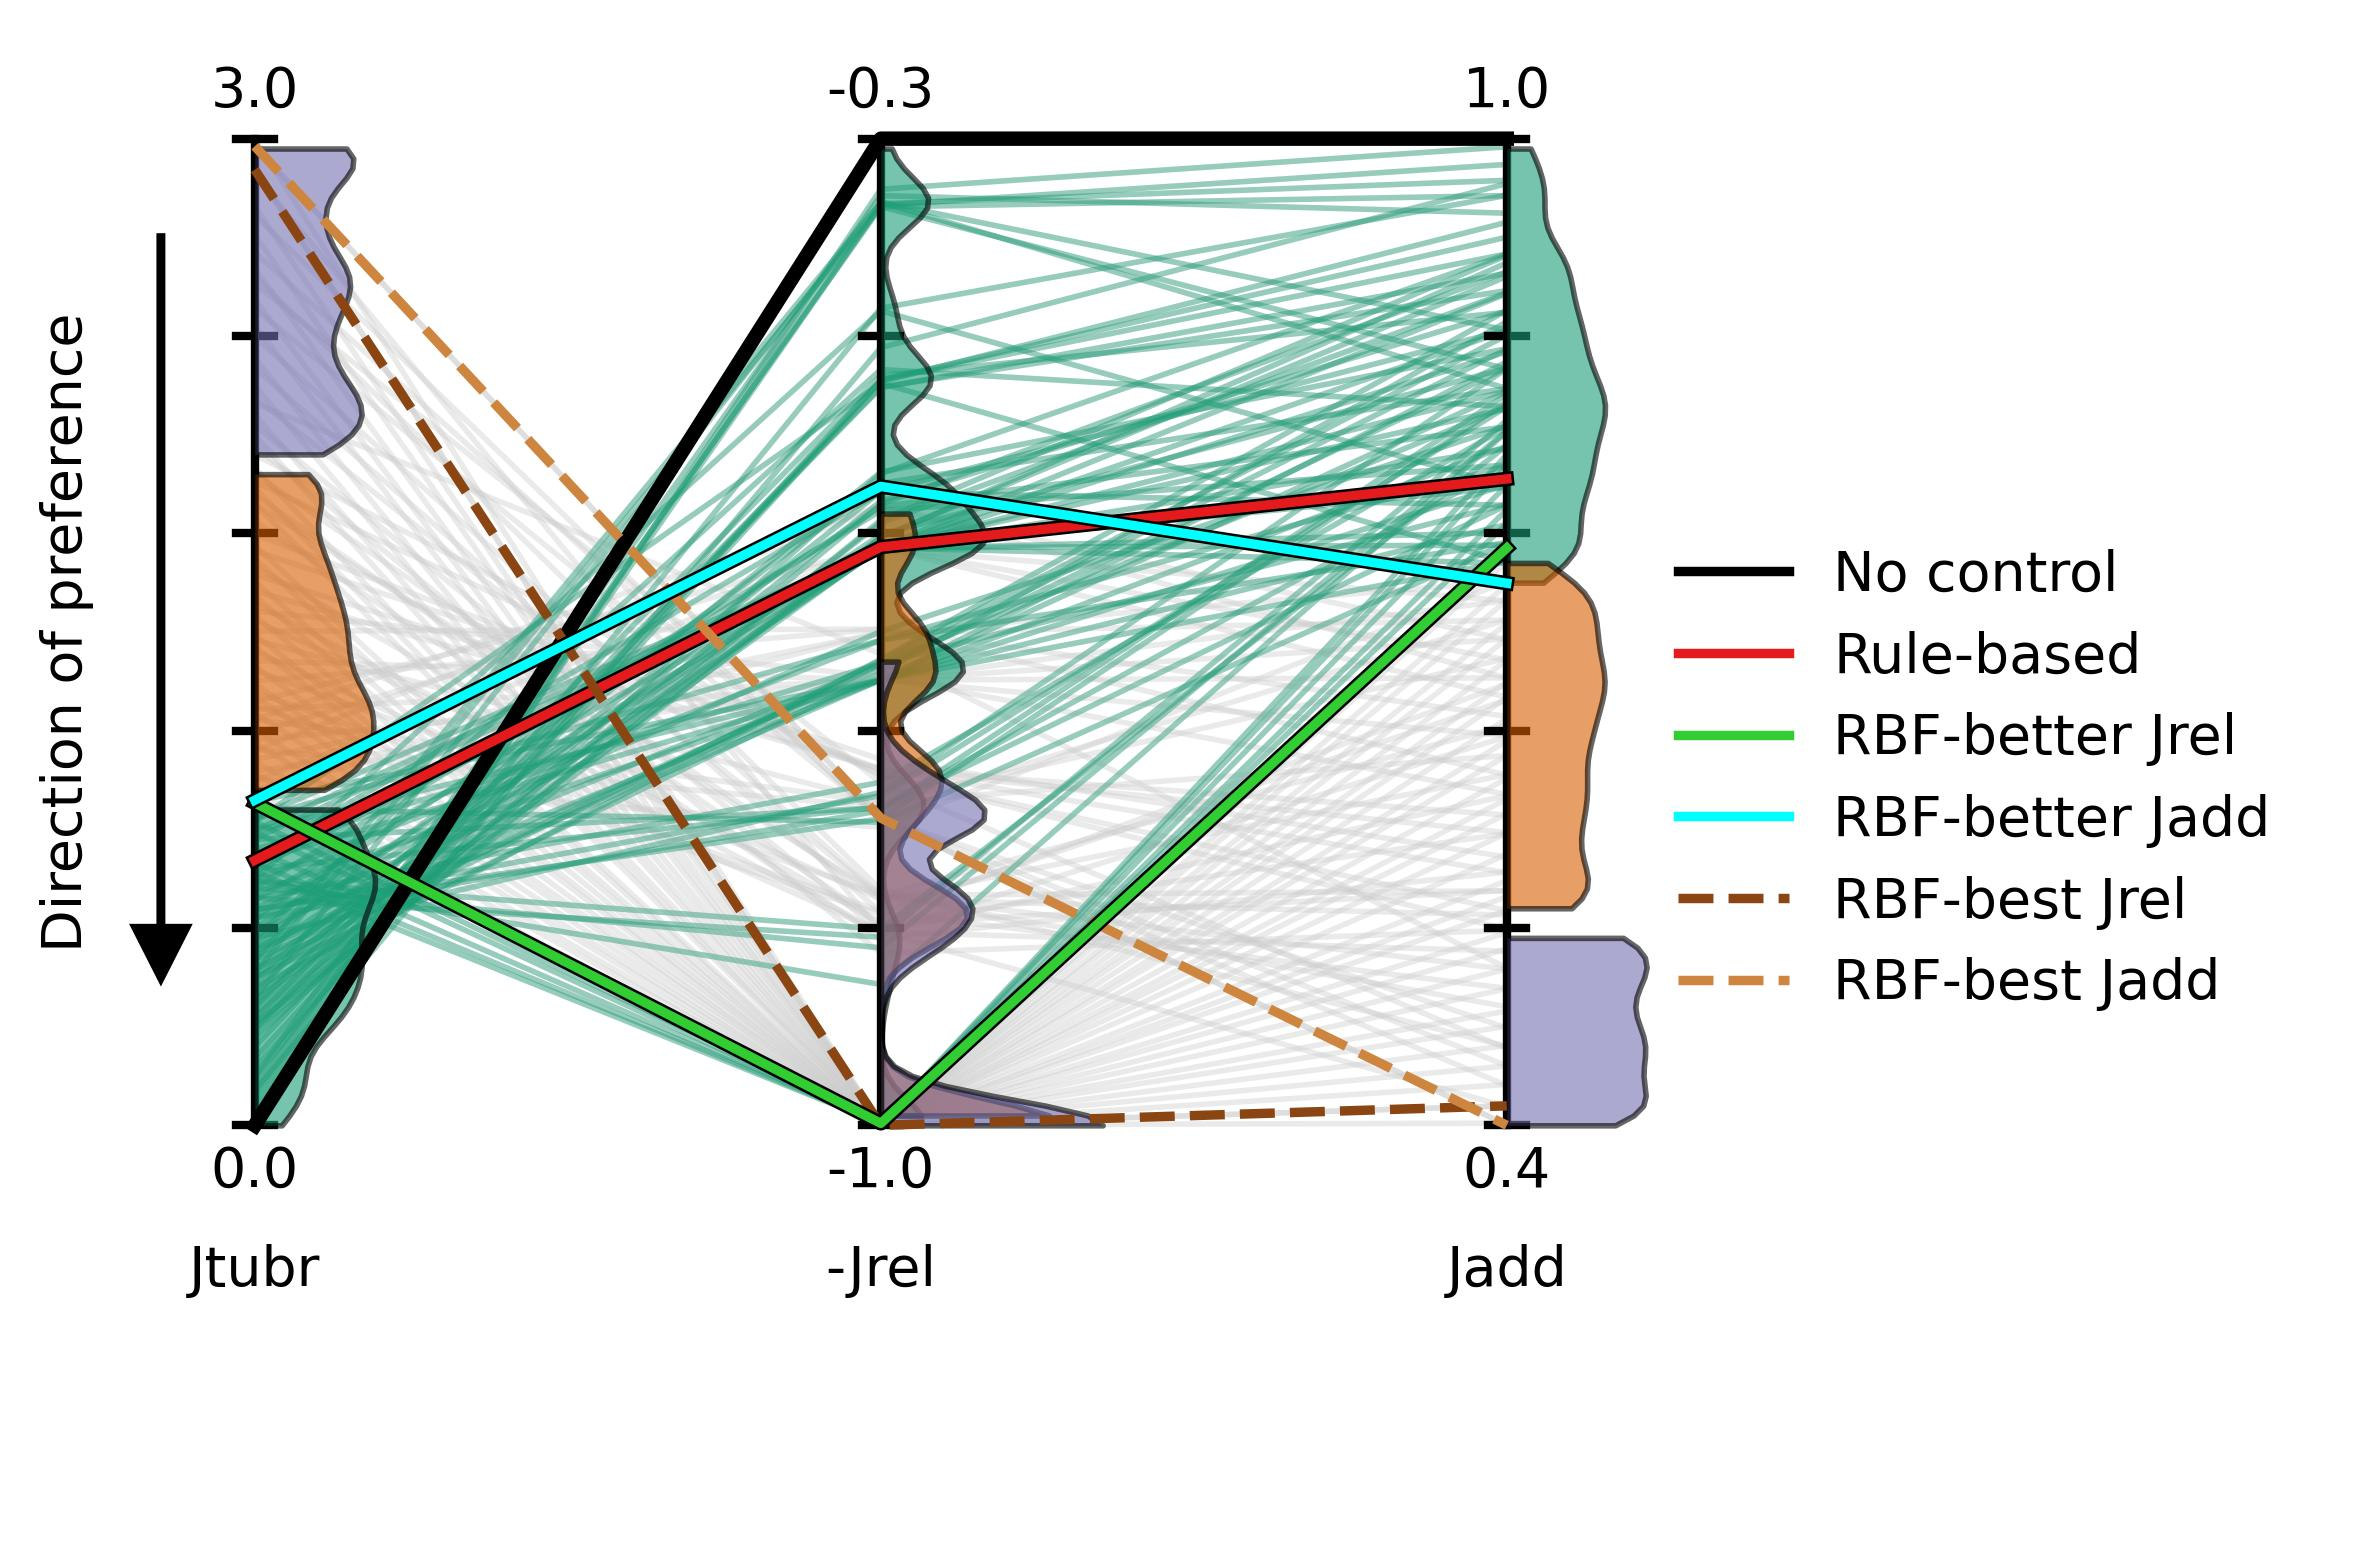
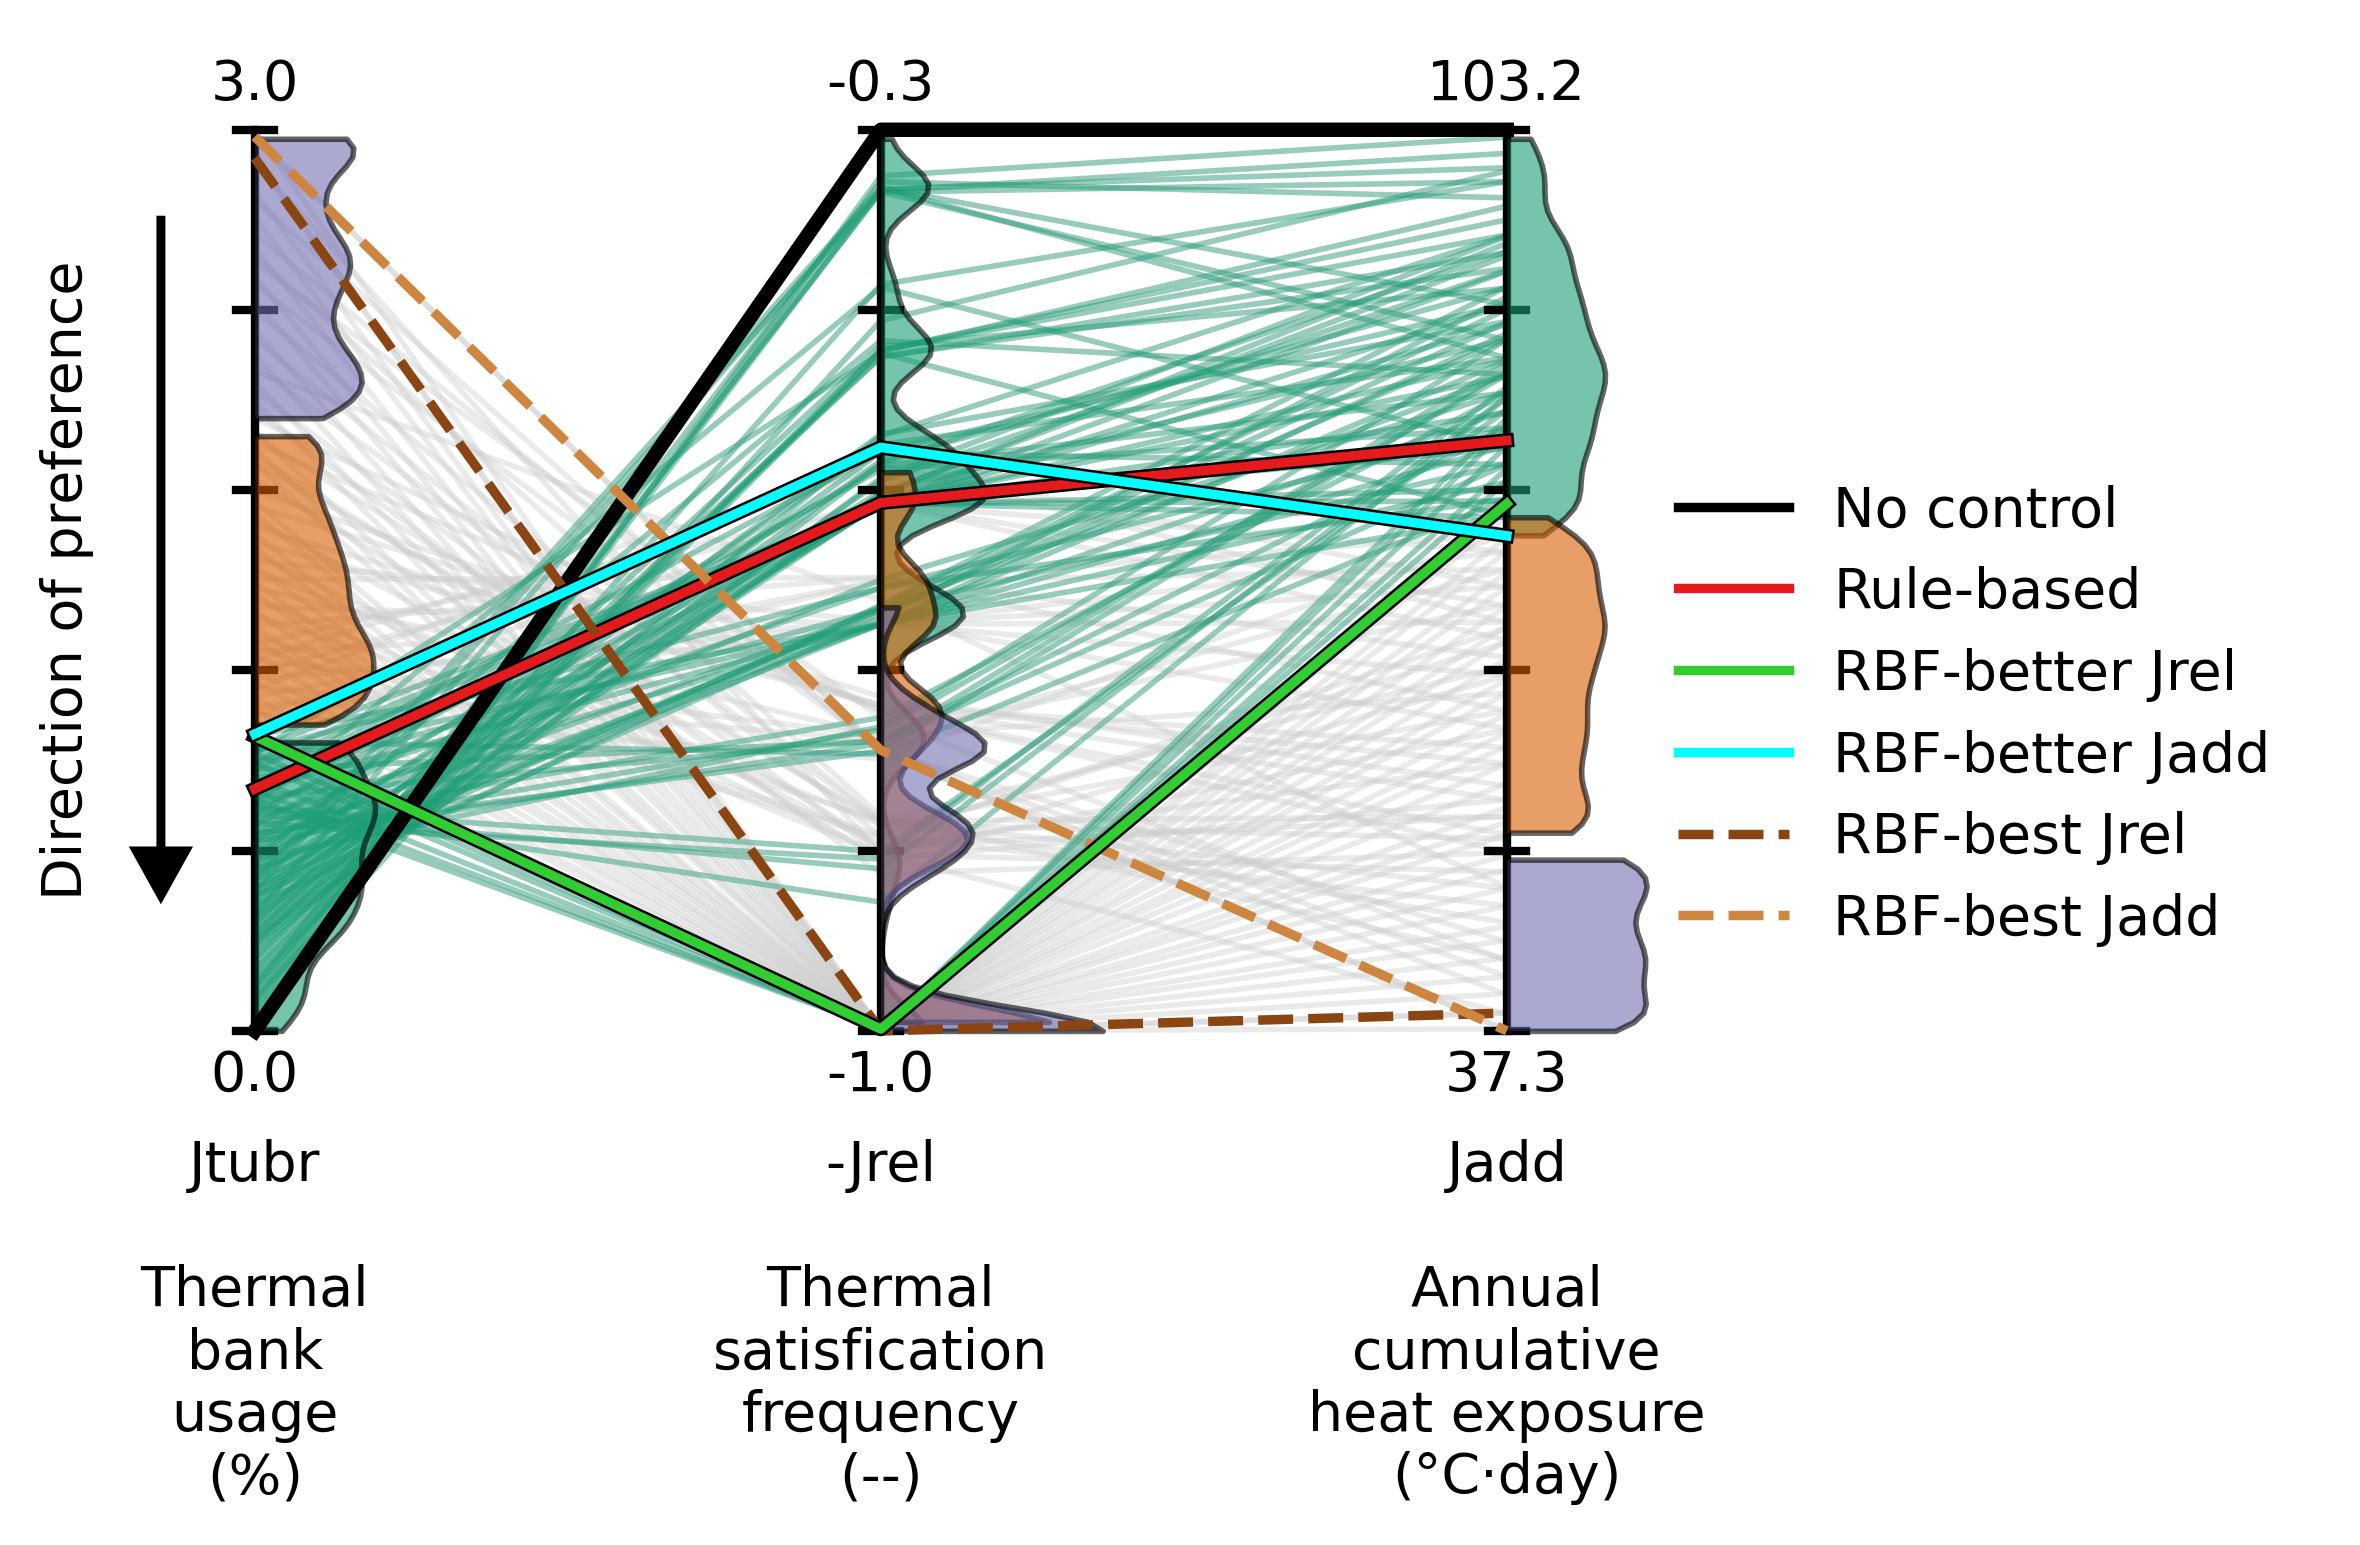
update figure and exp

diff --git a/rf_lstm_timer.py b/rf_lstm_timer.py
@@ -1,0 +1,106 @@
+import pathnavigator
+
+if pathnavigator.os_name == 'Windows':
+    root_dir = rf"C:\Users\{pathnavigator.user}\Documents\GitHub\PywrDRB-ML"
+elif pathnavigator.os_name == 'Darwin':
+    root_dir = rf"/Users/{pathnavigator.user}/Documents/GitHub/PywrDRB-ML"
+else:
+    root_dir = pathnavigator.expanduser("~/Github/PywrDRB-ML")
+
+pn = pathnavigator.create(root_dir)
+pn.chdir()
+
+import time
+import pandas as pd
+import numpy as np
+from src.torch_bmi import bmi_lstm
+from src.rf_model import RandomForestUncertaintyModel
+
+
+subfolder = "SalinityLSTM"
+model_id = "SalinityLSTM"
+
+config_file = pn.models.get(f"{subfolder}/{model_id}.yml")
+lstm = bmi_lstm()
+lstm.initialize(config_file=config_file, train=False, root_dir=pn.get())
+
+start = time.time()
+#sim = lstm.simple_run()
+lstm.update_until_loop(timestep=100)
+end = time.time()
+print(f"Execution time: {end - start:.4f} seconds")
+# Execution time: 0.0406 seconds
+
+
+db_SalinityLSTM = pd.read_csv(pn.data.database.get("SalinityLSTM_database.csv"), index_col=0, parse_dates=True)
+database = db_SalinityLSTM.copy()['1979-01-01': '2023-12-31']
+
+df_res = pd.DataFrame(index=database.index)
+
+rf_settings = {
+    "n_estimators": 20,#35,
+    "max_features": "sqrt",
+    "random_state": 4,
+    "n_jobs": -2,
+    "max_depth": 10,#14,
+    }
+n_bootstrap = 100
+
+df = database[["Q_Trenton_bc", "Q_Schuylkill_bc", "Q_Trenton_bc_7d_avg", "Q_Schuylkill_bc_7d_avg", "doy", "saltfront", "saltfront_src"]].dropna()
+df.loc[df["saltfront_src"] != "obs", "saltfront"] = np.nan
+df.dropna(axis=0, how='any', inplace=True)
+x_vars = ["Q_Trenton_bc", "Q_Schuylkill_bc", "Q_Trenton_bc_7d_avg", "Q_Schuylkill_bc_7d_avg", "doy"]
+y_var = "saltfront"
+X = df[x_vars].values
+obs = df[y_var].values
+rf_model_saltfront = RandomForestUncertaintyModel(x_vars, y_var, **rf_settings)
+rf_model_saltfront.fit(X, obs)
+
+start = time.time()
+#rf_model_saltfront.predict(X)
+for i in range(100):
+    rf_model_saltfront.predict(np.reshape(X[i], (1,-1)))
+end = time.time()
+print(f"Execution time: {end - start:.4f} seconds")
+# Execution time: 1.4969 seconds
+
+#%%
+import platform
+import sys
+import multiprocessing
+import psutil
+import torch
+import numpy as np
+import pandas as pd
+import sklearn
+import time
+
+def print_env_info():
+    print("=== Python Environment Info ===")
+    print(f"Python version: {sys.version.split()[0]}")
+    print(f"Platform: {platform.system()} {platform.release()} ({platform.version()})")
+    print(f"Processor: {platform.processor()}")
+    print(f"CPU cores (logical): {multiprocessing.cpu_count()}")
+    print(f"Memory (GB): {round(psutil.virtual_memory().total / (1024**3), 2)}")
+    print()
+
+    print("=== Library Versions ===")
+    print(f"Numpy: {np.__version__}")
+    print(f"Pandas: {pd.__version__}")
+    print(f"Torch: {torch.__version__ if torch else 'N/A'}")
+    print(f"Scikit-learn: {sklearn.__version__ if sklearn else 'N/A'}")
+    print()
+
+    # Optional: check GPU
+    if torch.cuda.is_available():
+        print("=== CUDA / GPU Info ===")
+        print(f"GPU count: {torch.cuda.device_count()}")
+        for i in range(torch.cuda.device_count()):
+            print(f"  GPU {i}: {torch.cuda.get_device_name(i)}")
+        print(f"CUDA version: {torch.version.cuda}")
+        print(f"CUDNN version: {torch.backends.cudnn.version()}")
+    else:
+        print("CUDA not available.")
+    print("==============================\n")
+
+print_env_info()

diff --git a/thermal_ctrl_decoupled/parallel_axes_with_kde_withSdyn.py b/thermal_ctrl_decoupled/parallel_axes_with_kde_withSdyn.py
@@ -175,14 +175,15 @@ names = ["No control", "Rule-based", "historic", #\n(2010-2023)
 #     [3,   -0.9979, 0.39818,   names[6]], # "RBF-best Jadd" 4
 # ]
 
+toC = 103.16
 
 highlight_rows = [
-    [0,        -0.303, 1,        names[0]], # "No control"
-    [0.8025, -0.5913, 0.7798,   names[1]], # "Rule-based"
-    [0.9765,   -0.9981, 0.7351,   names[3]], # "RBF-better Jrel" 28
-    [0.9846,   -0.5485, 0.7123,   names[4]], # "RBF-better Jadd" 151
-    [2.8944,   -0.9995, 0.3741,   names[5]], # "RBF-best Jrel" 63
-    [2.9655,   -0.7826, 0.3615,   names[6]], # "RBF-best Jadd" 106
+    [0,        -0.303, 1*toC,        names[0]], # "No control"
+    [0.8025, -0.5913, 0.7798*toC,   names[1]], # "Rule-based"
+    [0.9765,   -0.9981, 0.7351*toC,   names[3]], # "RBF-better Jrel" 28
+    [0.9846,   -0.5485, 0.7123*toC,   names[4]], # "RBF-better Jadd" 151
+    [2.8944,   -0.9995, 0.3741*toC,   names[5]], # "RBF-best Jrel" 63
+    [2.9655,   -0.7826, 0.3615*toC,   names[6]], # "RBF-best Jadd" 106
 ]
 df_highlight = pd.DataFrame(highlight_rows, columns=["Jtubr", "-Jrel", "Jadd", "label"])
 
@@ -216,7 +217,8 @@ job_id = "143990"
 df_ref = clt.borg.read_ref(pn.outputs.get(f"dps_{policy}_{job_id}/borg.ref"))
 df_ref = df_ref[['obj3', 'obj1', 'obj2']]
 df_ref.columns = ["Jtubr", "-Jrel", "Jadd"]
-df_ref["Jadd"] /= 0.7984 
+df_ref["Jadd"] /= 0.7984
+df_ref["Jadd"] *= toC 
 df_ref["Jtubr"] *= 3
 df_ref["label"] = df_ref.index
 
@@ -239,7 +241,7 @@ plot_parallel_coords_with_kde(
     dict_colorlines_dfs=dict_colorlines_dfs,
     soln_labels=df_highlight["label"].to_list(),
     objmins=None, objmaxs=None,
-    axes_labels=["Jtubr", "-Jrel", "Jadd"],
+    axes_labels=["Jtubr\n\nThermal\nbank\nusage\n(%)", "-Jrel\n\nThermal\nsatisfication\nfrequency\n(--)", "Jadd\n\nAnnual\ncumulative\nheat exposure\n(°C·day)"],
     ideal_direction='bottom', fontsize=10, kde_scale=0.05,
     cmap_highlights=cmap_highlights,
     ls_highlights=ls_highlights,

diff --git a/thermal_ctrl_decoupled/pywrdrb_sim_results_analysis.py b/thermal_ctrl_decoupled/pywrdrb_sim_results_analysis.py
@@ -10,12 +10,12 @@ pn.chdir()
 import clt
 import pandas as pd
 
-output_folder = "dps_GaussianRBFPolicy_139181"
+output_folder = "dps_GaussianRBFPolicy_143990"
 salinity_dict = {
     "RBF-better Jrel": pd.read_csv(pn.outputs.get(output_folder) / "df_pywrdrb_salinity_RBF1_28.csv", parse_dates=True, index_col=[0]),
-    "RBF-better Jadd": pd.read_csv(pn.outputs.get(output_folder) / "df_pywrdrb_salinity_RBF2_68.csv", parse_dates=True, index_col=[0]),
-    "RRBF-best Jrel": pd.read_csv(pn.outputs.get(output_folder) / "df_pywrdrb_salinity_RBF3_20.csv", parse_dates=True, index_col=[0]),
-    "RBF-best Jadd": pd.read_csv(pn.outputs.get(output_folder) / "df_pywrdrb_salinity_RBF4_51.csv", parse_dates=True, index_col=[0]),
+    "RBF-better Jadd": pd.read_csv(pn.outputs.get(output_folder) / "df_pywrdrb_salinity_RBF2_151.csv", parse_dates=True, index_col=[0]),
+    "RRBF-best Jrel": pd.read_csv(pn.outputs.get(output_folder) / "df_pywrdrb_salinity_RBF3_63.csv", parse_dates=True, index_col=[0]),
+    "RBF-best Jadd": pd.read_csv(pn.outputs.get(output_folder) / "df_pywrdrb_salinity_RBF4_106.csv", parse_dates=True, index_col=[0]),
     "No control": pd.read_csv(pn.outputs.get(output_folder) / "df_pywrdrb_salinity_no_ctrl.csv", parse_dates=True, index_col=[0]),
     "Rule-based": pd.read_csv(pn.outputs.get(output_folder) / "df_pywrdrb_salinity_rulebased.csv", parse_dates=True, index_col=[0]),
     }